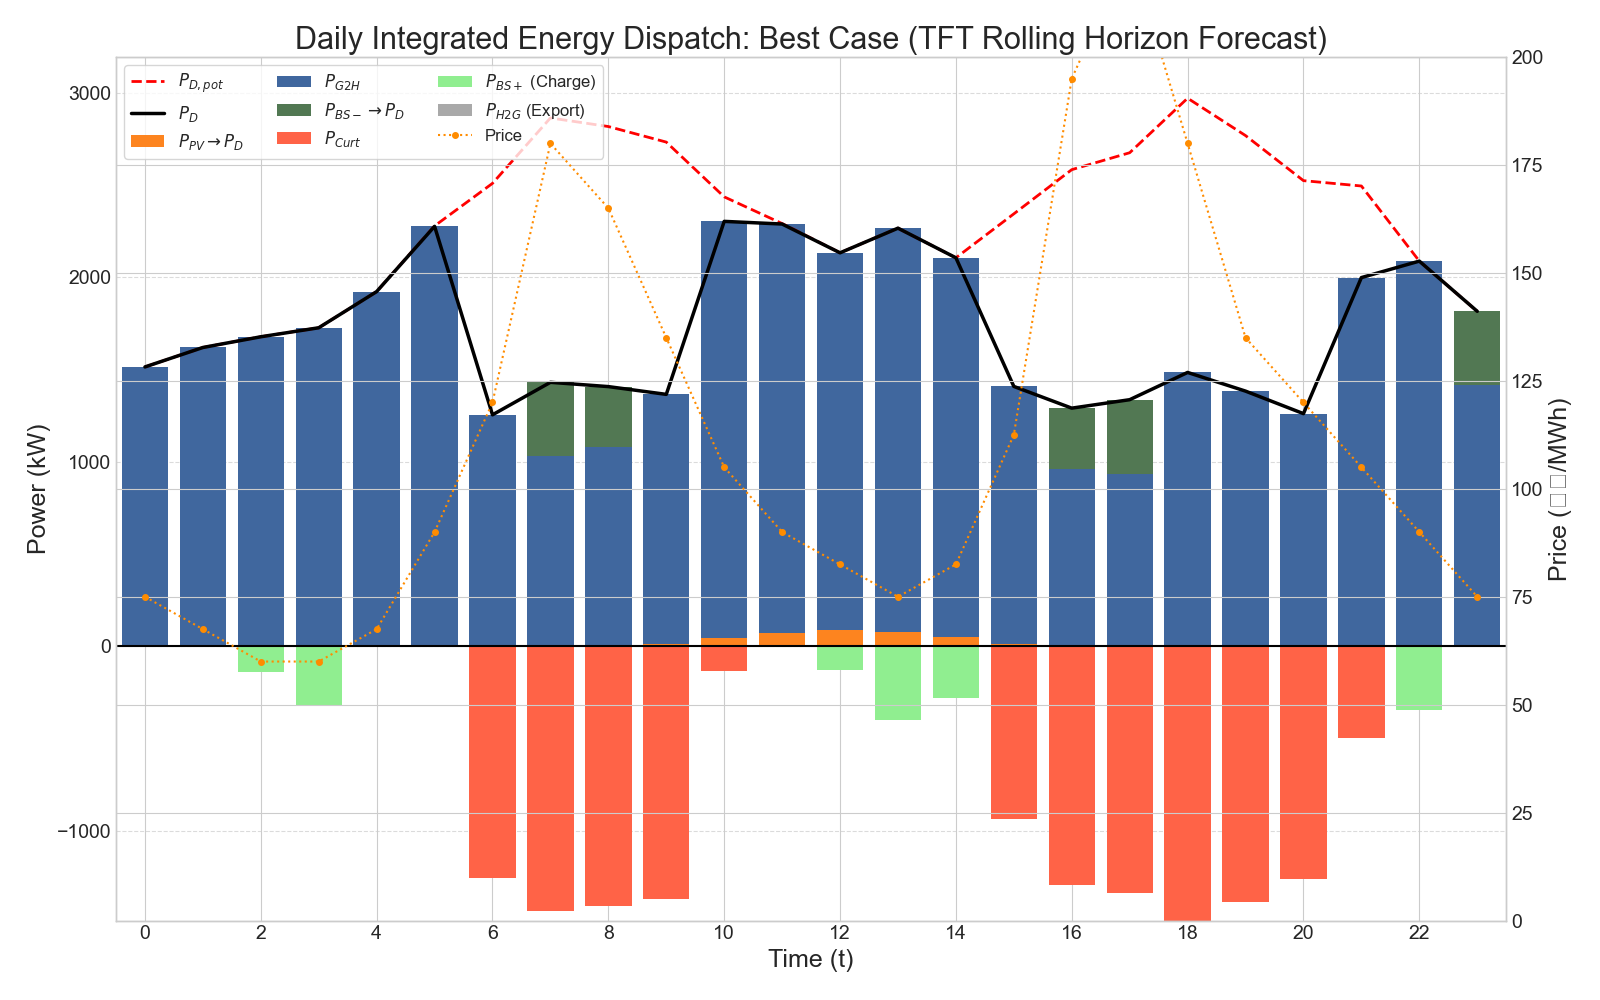
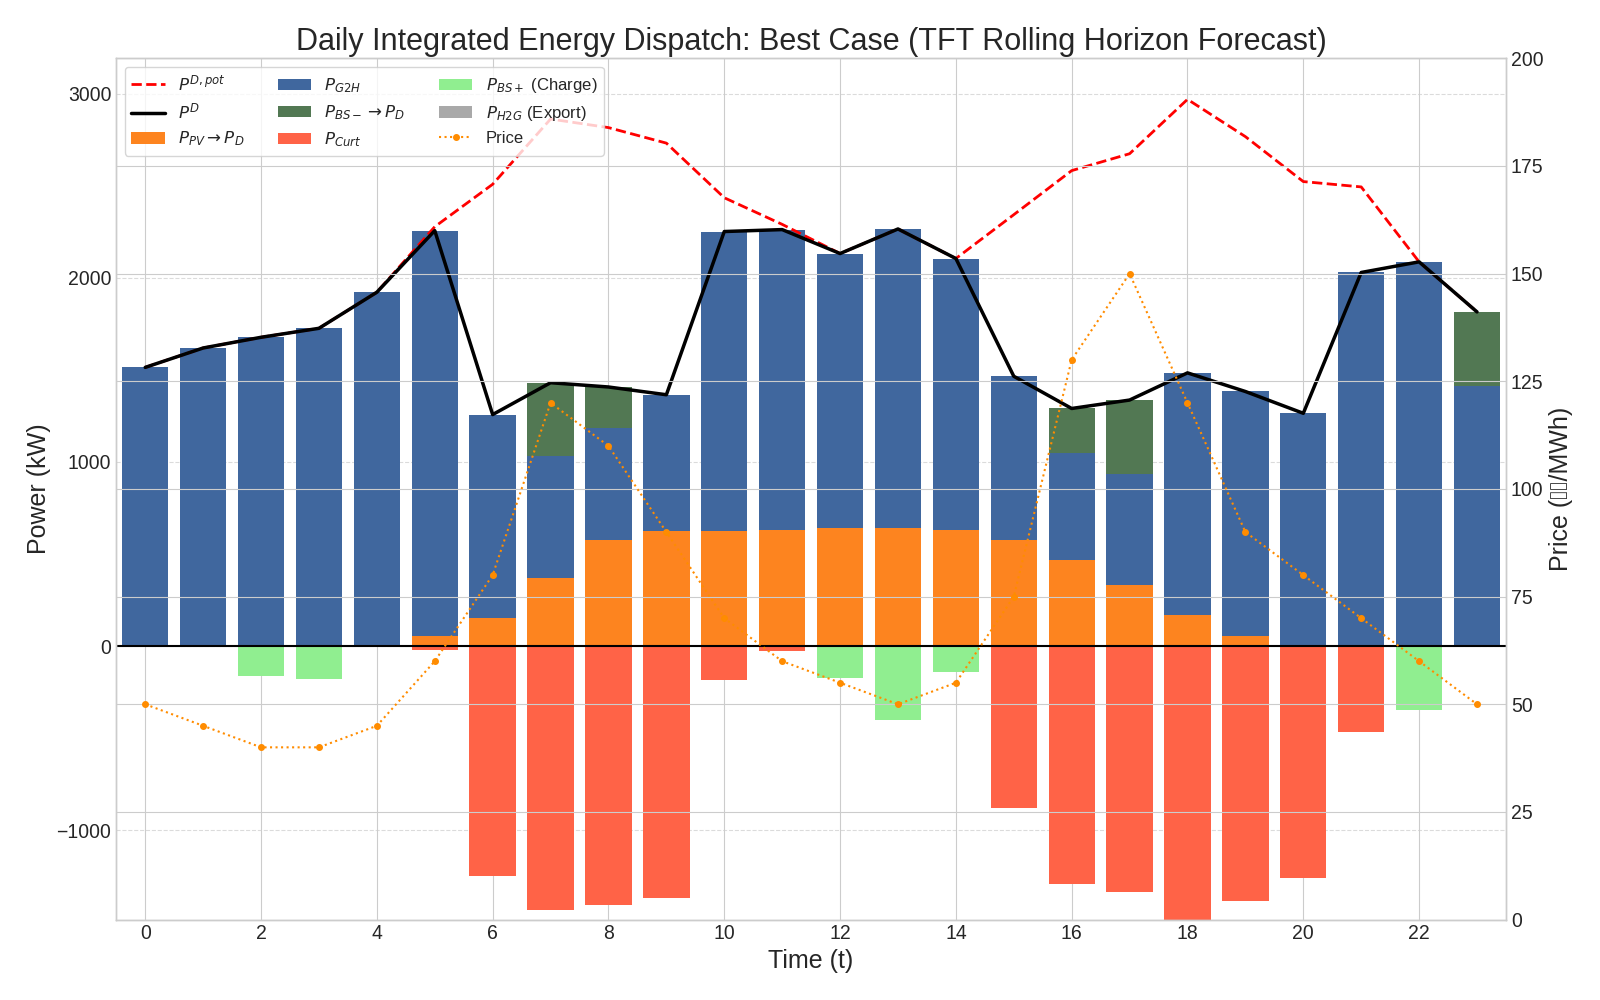
final working prototype

diff --git a/simulation.py b/simulation.py
@@ -25,13 +25,13 @@ class PvSystem:
         self.name = name
         self.bus_idx = bus_idx
         self.forecast = None # Forecast will be set later
-
-        # CRITICAL FIX: Convert percentage-based parameters to fractions for calculations
-        self.parameters['sd_t_c'] /= 100.0
-        self.parameters['epv_t_c'] /= 100.0
-        self.parameters['pce_@1sun'] /= 100.0
-        self.parameters['pce_@0sun'] /= 100.0
-
+        
+        # # CRITICAL FIX: Convert percentage-based parameters to fractions for calculations
+        # self.parameters['sd_t_c'] /= 100.0
+        # self.parameters['epv_t_c'] /= 100.0
+        # self.parameters['pce_@1sun'] /= 100.0
+        # self.parameters['pce_@0sun'] /= 100.0
+        #
     def _beta(self, temperature) -> pd.DataFrame:
         return (self.parameters['sd_t_c'] - self.parameters['epv_t_c']) * temperature
 
@@ -731,8 +731,8 @@ def plot_single_integrated_bars(df: pd.DataFrame, title_suffix="", filename="fin
             label=r'$P_{H2G}$ (Export)', color='#A9A9A9') # Dark Gray
 
     # --- 6. OVERLAY LINE PLOTS ---
-    ax1.plot(hours, potential_load * 1000, color='red', linestyle='--', linewidth=2.0, label=r'$P_{D, pot}$')
-    ax1.plot(hours, realized_load * 1000, color='black', linewidth=2.5, label=r'$P_{D}$')
+    ax1.plot(hours, potential_load * 1000, color='red', linestyle='--', linewidth=2.0, label=r'$P^{D, pot}$')
+    ax1.plot(hours, realized_load * 1000, color='black', linewidth=2.5, label=r'$P^{D}$')
 
     # --- 7. ADD PRICE ON SECONDARY AXIS ---
     ax2 = ax1.twinx()
@@ -756,6 +756,130 @@ def plot_single_integrated_bars(df: pd.DataFrame, title_suffix="", filename="fin
     plt.savefig(filename)
     plt.show()
 
+
+def plot_thesis_dispatch_bars(df: pd.DataFrame, title_suffix="", filename="dispatch_final.png"):
+    """
+    Generates a thesis-quality, integrated bar chart for energy dispatch.
+
+    This function addresses all specific formatting requests:
+    - Uses stacked bar charts for clarity.
+    - Corrects labels to standard LaTeX format with superscripts.
+    - Displays power in MW.
+    - Sets all axes to start at zero and dynamically adjusts limits to fit all data.
+    - Increases font sizes for readability.
+    - Adds black edges to bars and ensures gridlines are in the background.
+    - Enhances visibility of the price curve.
+    """
+    # 1. --- Global Style and Font Configuration ---
+    plt.style.use('seaborn-v0_8-whitegrid')
+    plt.rcParams.update({
+        'font.size': 25,
+        'axes.labelsize': 20,
+        'axes.titlesize': 22,
+        'xtick.labelsize': 25,
+        'ytick.labelsize': 25,
+        'legend.fontsize': 20,
+        'figure.titlesize': 24
+    })
+
+    hours = df.index
+    bar_width = 0.85
+
+    # 2. --- Data Preparation (Units are already in MW) ---
+    # Sources
+    pv_supply = df[[col for col in df.columns if 'pv_' in col]].sum(axis=1)
+    bess_discharge = df[[col for col in df.columns if col.startswith('p_discharge')]].sum(axis=1)
+    grid_import = df['grid_import']
+    # Demands / Sinks
+    potential_load = df['load']
+    curtailed_load = df.get('curtailed_load', 0)
+    realized_load = potential_load - curtailed_load
+    bess_charge = df[[col for col in df.columns if col.startswith('p_charge')]].sum(axis=1)
+    grid_export = df.get('grid_export', 0)
+
+    # Calculate stacking components for demand fulfillment
+    load_met_by_pv = np.minimum(realized_load, pv_supply)
+    remaining_load_after_pv = realized_load - load_met_by_pv
+    load_met_by_bess = np.minimum(remaining_load_after_pv, bess_discharge)
+    remaining_load_after_bess = remaining_load_after_pv - load_met_by_bess
+    load_met_by_grid = remaining_load_after_bess
+
+    # 3. --- Plot Setup ---
+    fig, ax1 = plt.subplots(figsize=(18, 10))
+    # fig.suptitle(f'Daily Energy Dispatch: {title_suffix}', y=0.96)
+    ax1.set_ylabel('Power (MW)')
+    ax1.set_xlabel('Time (Hour)')
+    
+    # Ensure grid is drawn behind plot elements
+    ax1.set_axisbelow(True)
+
+    # 4. --- Plot Positive Bars (Demand Fulfillment) ---
+    # Stack order: PV -> Grid -> BESS
+    ax1.bar(hours, load_met_by_pv, width=bar_width,
+            label=r'$P^{PV} \to P^{D}$', color='#FD841F', edgecolor='black', linewidth=0.8)
+    
+    ax1.bar(hours, load_met_by_grid, width=bar_width, bottom=load_met_by_pv,
+            label=r'$P^{g}$', color='#40679E', edgecolor='black', linewidth=0.8)
+            
+    ax1.bar(hours, load_met_by_bess, width=bar_width, bottom=load_met_by_pv + load_met_by_grid,
+            label=r'$P^{BS-}$', color='#527853', edgecolor='black', linewidth=0.8)
+
+    # 5. --- Plot Negative Bars (Surplus/Curtailment Actions) ---
+    # Stack order: Curtailment -> BESS Charge -> Grid Export
+    ax1.bar(hours, -curtailed_load, width=bar_width,
+            label=r'$P^{x}$', color='#FF6347', edgecolor='black', linewidth=0.8)
+    
+    ax1.bar(hours, -bess_charge, width=bar_width, bottom=-curtailed_load,
+            label=r'$P^{BS+}$', color='#90EE90', edgecolor='black', linewidth=0.8)
+    
+    # ax1.bar(hours, -grid_export, width=bar_width, bottom=-(curtailed_load + bess_charge),
+    #         label=r'$P_{\mathrm{H2G}}$', color='#A9A9A9', edgecolor='black', linewidth=0.8)
+
+    # 6. --- Overlay Line Plots for Demand ---
+    # zorder ensures lines are plotted on top of the bars
+    ax1.plot(hours, potential_load, color='darkred', linestyle='--', linewidth=2.5, label=r'$P_{\mathrm{D}}^{\mathrm{pot}}$', zorder=3)
+    ax1.plot(hours, realized_load, color='black', linestyle='-', linewidth=3, label=r'$P_{\mathrm{D}}$', zorder=3)
+    
+    # 7. --- Secondary Y-Axis for Price ---
+    ax2 = ax1.twinx()
+    ax2.set_ylabel('Price (£/MWh)')
+    price_color = 'darkorange'
+    ax2.plot(hours, df['grid_price'], color=price_color, linestyle=':', linewidth=3,
+             marker='o', markersize=6, label='Price', zorder=3)
+    
+    # --- EDIT START: COLOR-MATCH RIGHT AXIS AND REMOVE ITS GRID ---
+    # The grid is already tied only to ax1, but this makes the distinction clear.
+    # Color the tick labels, the ticks themselves, and the axis label to match the price line.
+    ax2.yaxis.label.set_color(price_color)
+    ax2.tick_params(axis='y', colors=price_color)
+    ax2.grid(False) # Explicitly disable grid for the secondary axis
+    # --- EDIT END ---
+
+    # 8. --- Final Formatting ---
+    ax1.axhline(0, color='black', linewidth=1.5)
+    ax1.set_xlim(-0.5, 23.5)
+    
+    # Dynamic Y-axis Limits
+    positive_max = (load_met_by_pv + load_met_by_grid + load_met_by_bess).max()
+    demand_max = potential_load.max()
+    upper_power_limit = max(positive_max, demand_max) * 1.15
+    negative_max = (curtailed_load + bess_charge + grid_export).max()
+    lower_power_limit = -negative_max * 1.15
+    ax1.set_ylim(lower_power_limit, upper_power_limit)
+    
+    price_max = df['grid_price'].max()
+    ax2.set_ylim(0, price_max * 1.15)
+
+    # Combine legends from both axes
+    lines, labels = ax1.get_legend_handles_labels()
+    lines2, labels2 = ax2.get_legend_handles_labels()
+    ax1.legend(lines + lines2, labels + labels2, loc='upper left', ncol=3, frameon=True, facecolor='white', framealpha=0.8)
+    
+    plt.xticks(np.arange(0, 24, 2))
+    fig.tight_layout(rect=[0, 0, 1, 0.95])
+    
+    plt.savefig(filename, dpi=300, bbox_inches='tight')
+    plt.show()
 
 if __name__ == "__main__":
     network = nw.case33bw()
@@ -784,11 +908,11 @@ if __name__ == "__main__":
             
     # --- End of New Load Calculation ---
     # total_load_forecast = network.load.p_mw.sum() * (np.sin(np.linspace(0, 2*np.pi, 24)) * 0.4 + 0.8)
-    grid_price_data = np.array([50, 45, 40, 40, 45, 60, 80, 120, 110, 90, 70, 60, 55, 50, 55, 75, 130, 150, 120, 90, 80, 70, 60, 50]) * 1.5
+    grid_price_data = np.array([50, 45, 40, 40, 45, 60, 80, 120, 110, 90, 70, 60, 55, 50, 55, 75, 130, 150, 120, 90, 80, 70, 60, 50])
 
     try:
-        t2m_df = pd.read_csv("december_t2m.csv", parse_dates=['timestamp']).head(24)
-        ghi_df = pd.read_csv("december_GHI.csv", parse_dates=['timestamp']).head(24)
+        t2m_df = pd.read_csv("june_t2m.csv", parse_dates=['timestamp']).head(24)
+        ghi_df = pd.read_csv("june_GHI.csv", parse_dates=['timestamp']).head(24)
     except FileNotFoundError:
         print("Error: Ensure 'december_t2m.csv' and 'december_GHI.csv' are in the same directory.")
         exit()
@@ -861,6 +985,27 @@ if __name__ == "__main__":
 
         # Plot the energy dispatch for best and worst cases
         advanced_kpis = kpi_results_df[kpi_results_df['Scenario'] == 'Advanced (Emerging PV)']
+        
+        # Plot the dispatch for the 'Advanced' scenario with the 'TFT Rolling Horizon' forecast
+        scenario_to_plot = 'Advanced (Emerging PV)'
+        model_to_plot = 'TFT Rolling Horizon'
+        
+        if (scenario_to_plot, model_to_plot) in schedule_storage:
+            print(f"--- Generating final thesis plot for: {scenario_to_plot} with {model_to_plot} forecast ---")
+            dispatch_df = schedule_storage[(scenario_to_plot, model_to_plot)]
+            
+            # --- CALL THE NEW, IMPROVED PLOTTING FUNCTION ---
+            plot_thesis_dispatch_bars(
+                dispatch_df, 
+                title_suffix=f"{scenario_to_plot} ({model_to_plot})", 
+                filename="dispatch_thesis_final.png"
+            )
+        else:
+            print(f"Could not find the specified scenario '{scenario_to_plot}' with model '{model_to_plot}' to plot.")
+
+    else:
+        print("\n--- All scenarios failed to solve. No results to analyze. ---")
+
 
 
     if not advanced_kpis.empty:
@@ -910,7 +1055,7 @@ if __name__ == "__main__":
             # worst_df = schedule_storage[('Advanced (Emerging PV)', worst_case['Forecast Model'])]
             # # --- And call the NEW function here ---
             # plot_demand_fulfillment(worst_df, f"Worst Case ({worst_case['Forecast Model']} Forecast)", "demand_fulfillment_worst.png")
-
+#
             # main
             # best_case = advanced_kpis.loc[advanced_kpis['total_cost'].idxmin()]
             # worst_case = advanced_kpis.loc[advanced_kpis['total_cost'].idxmax()]
